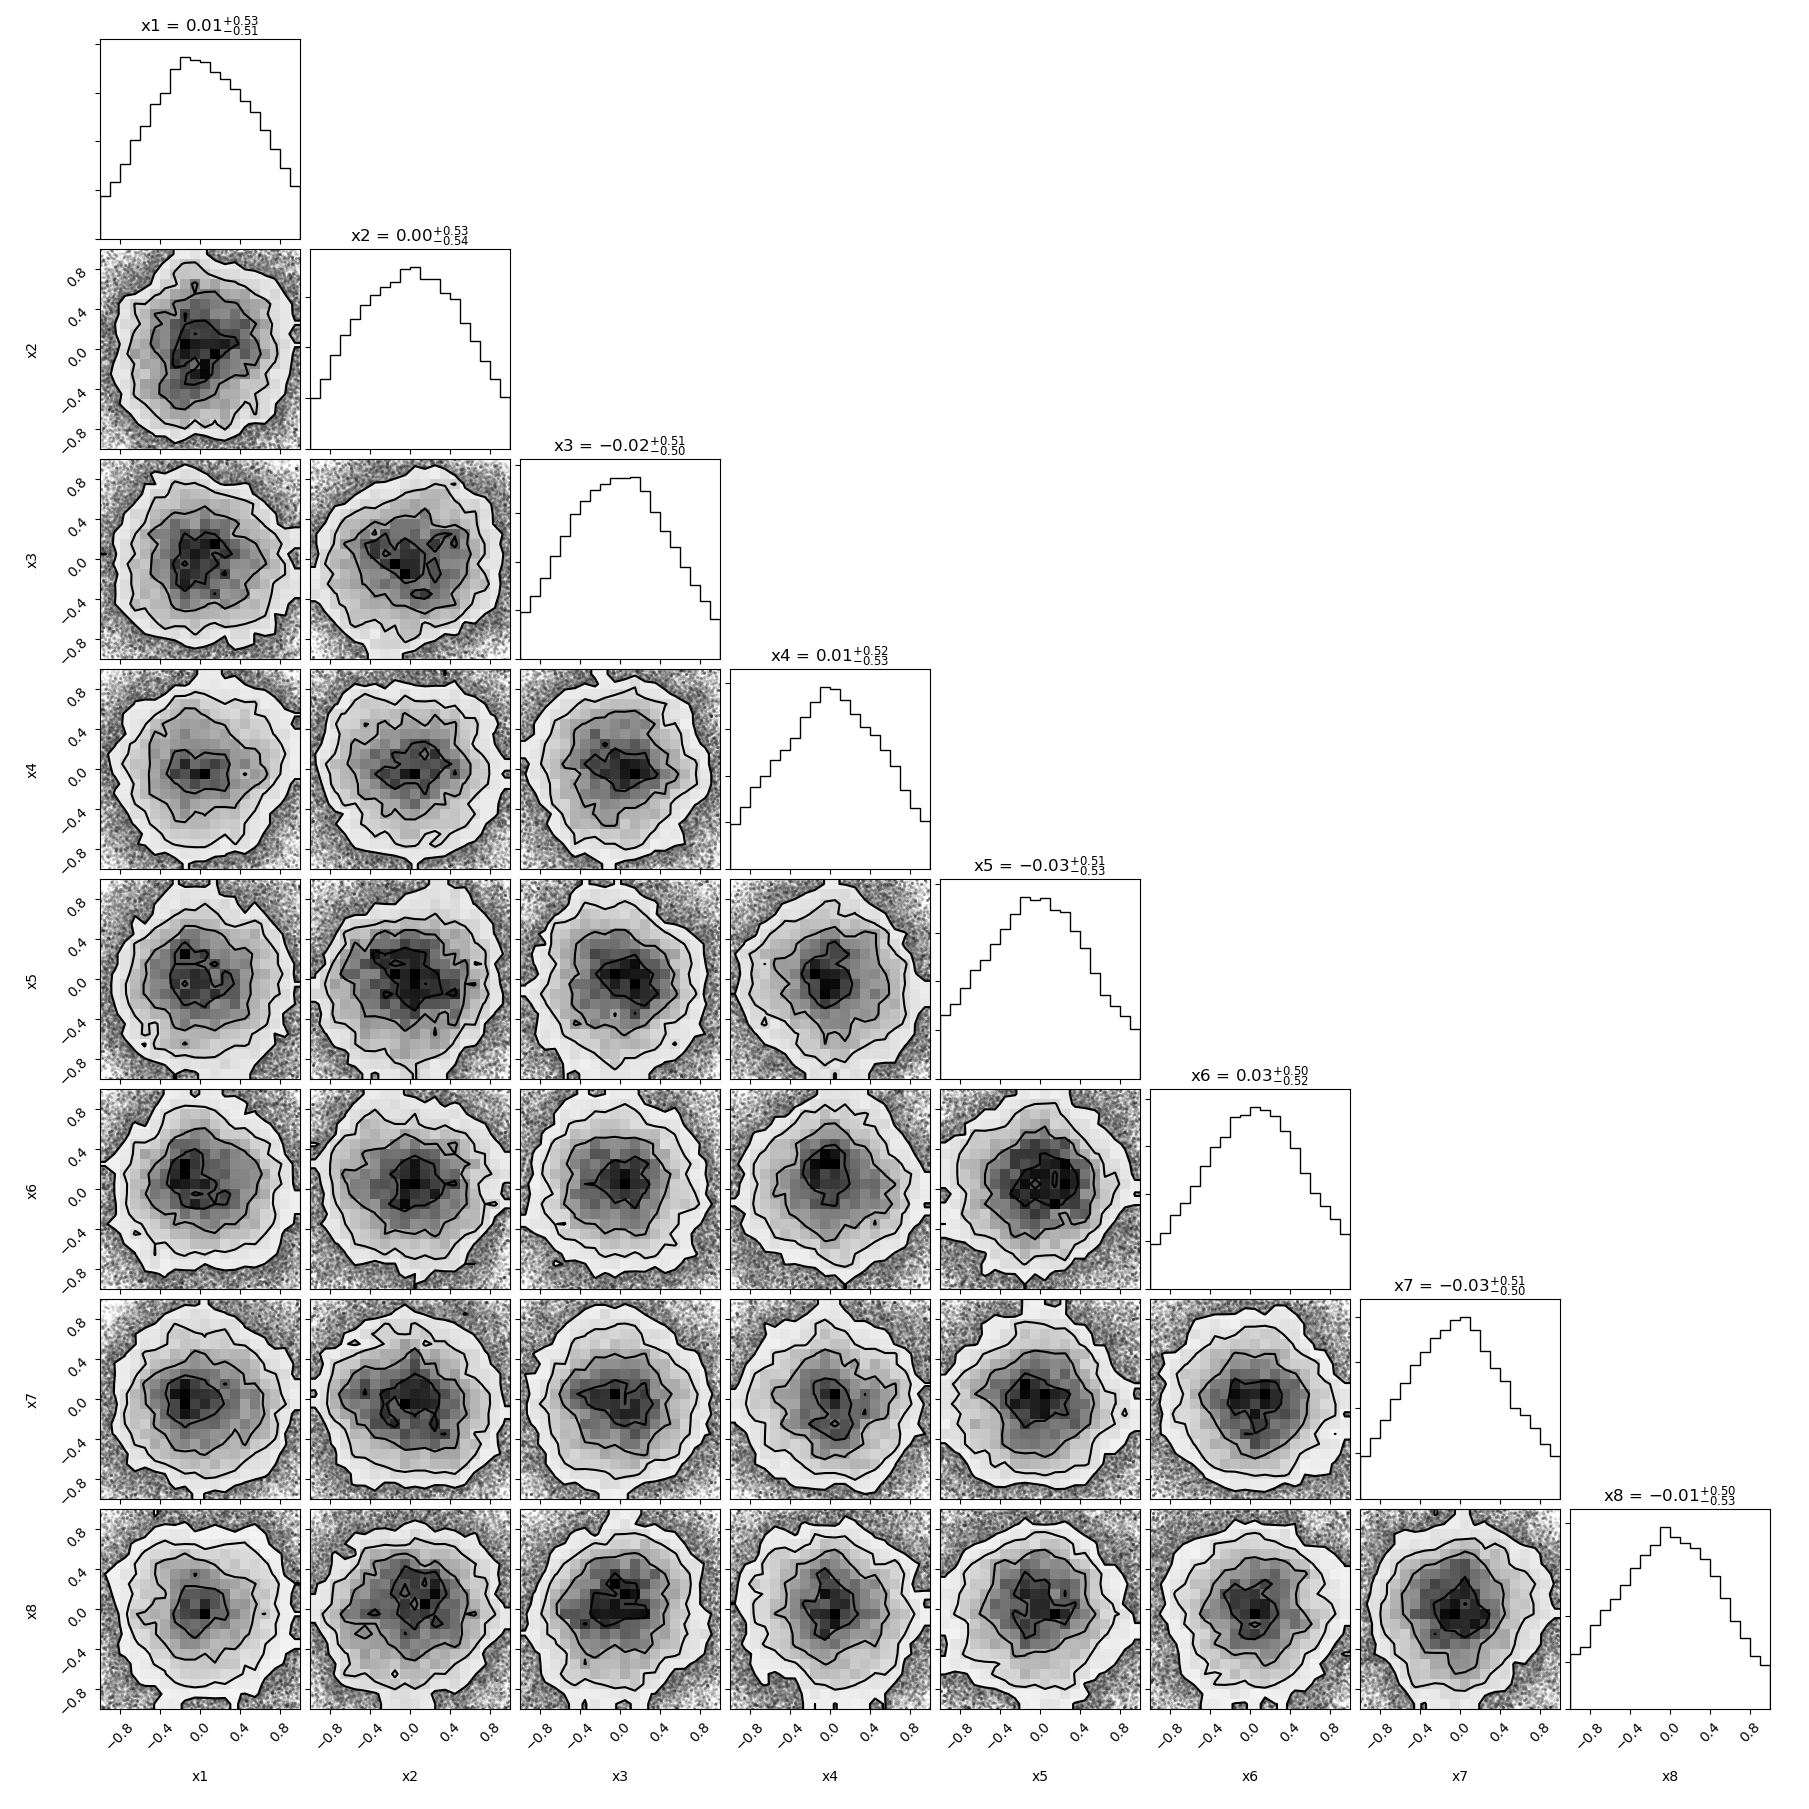
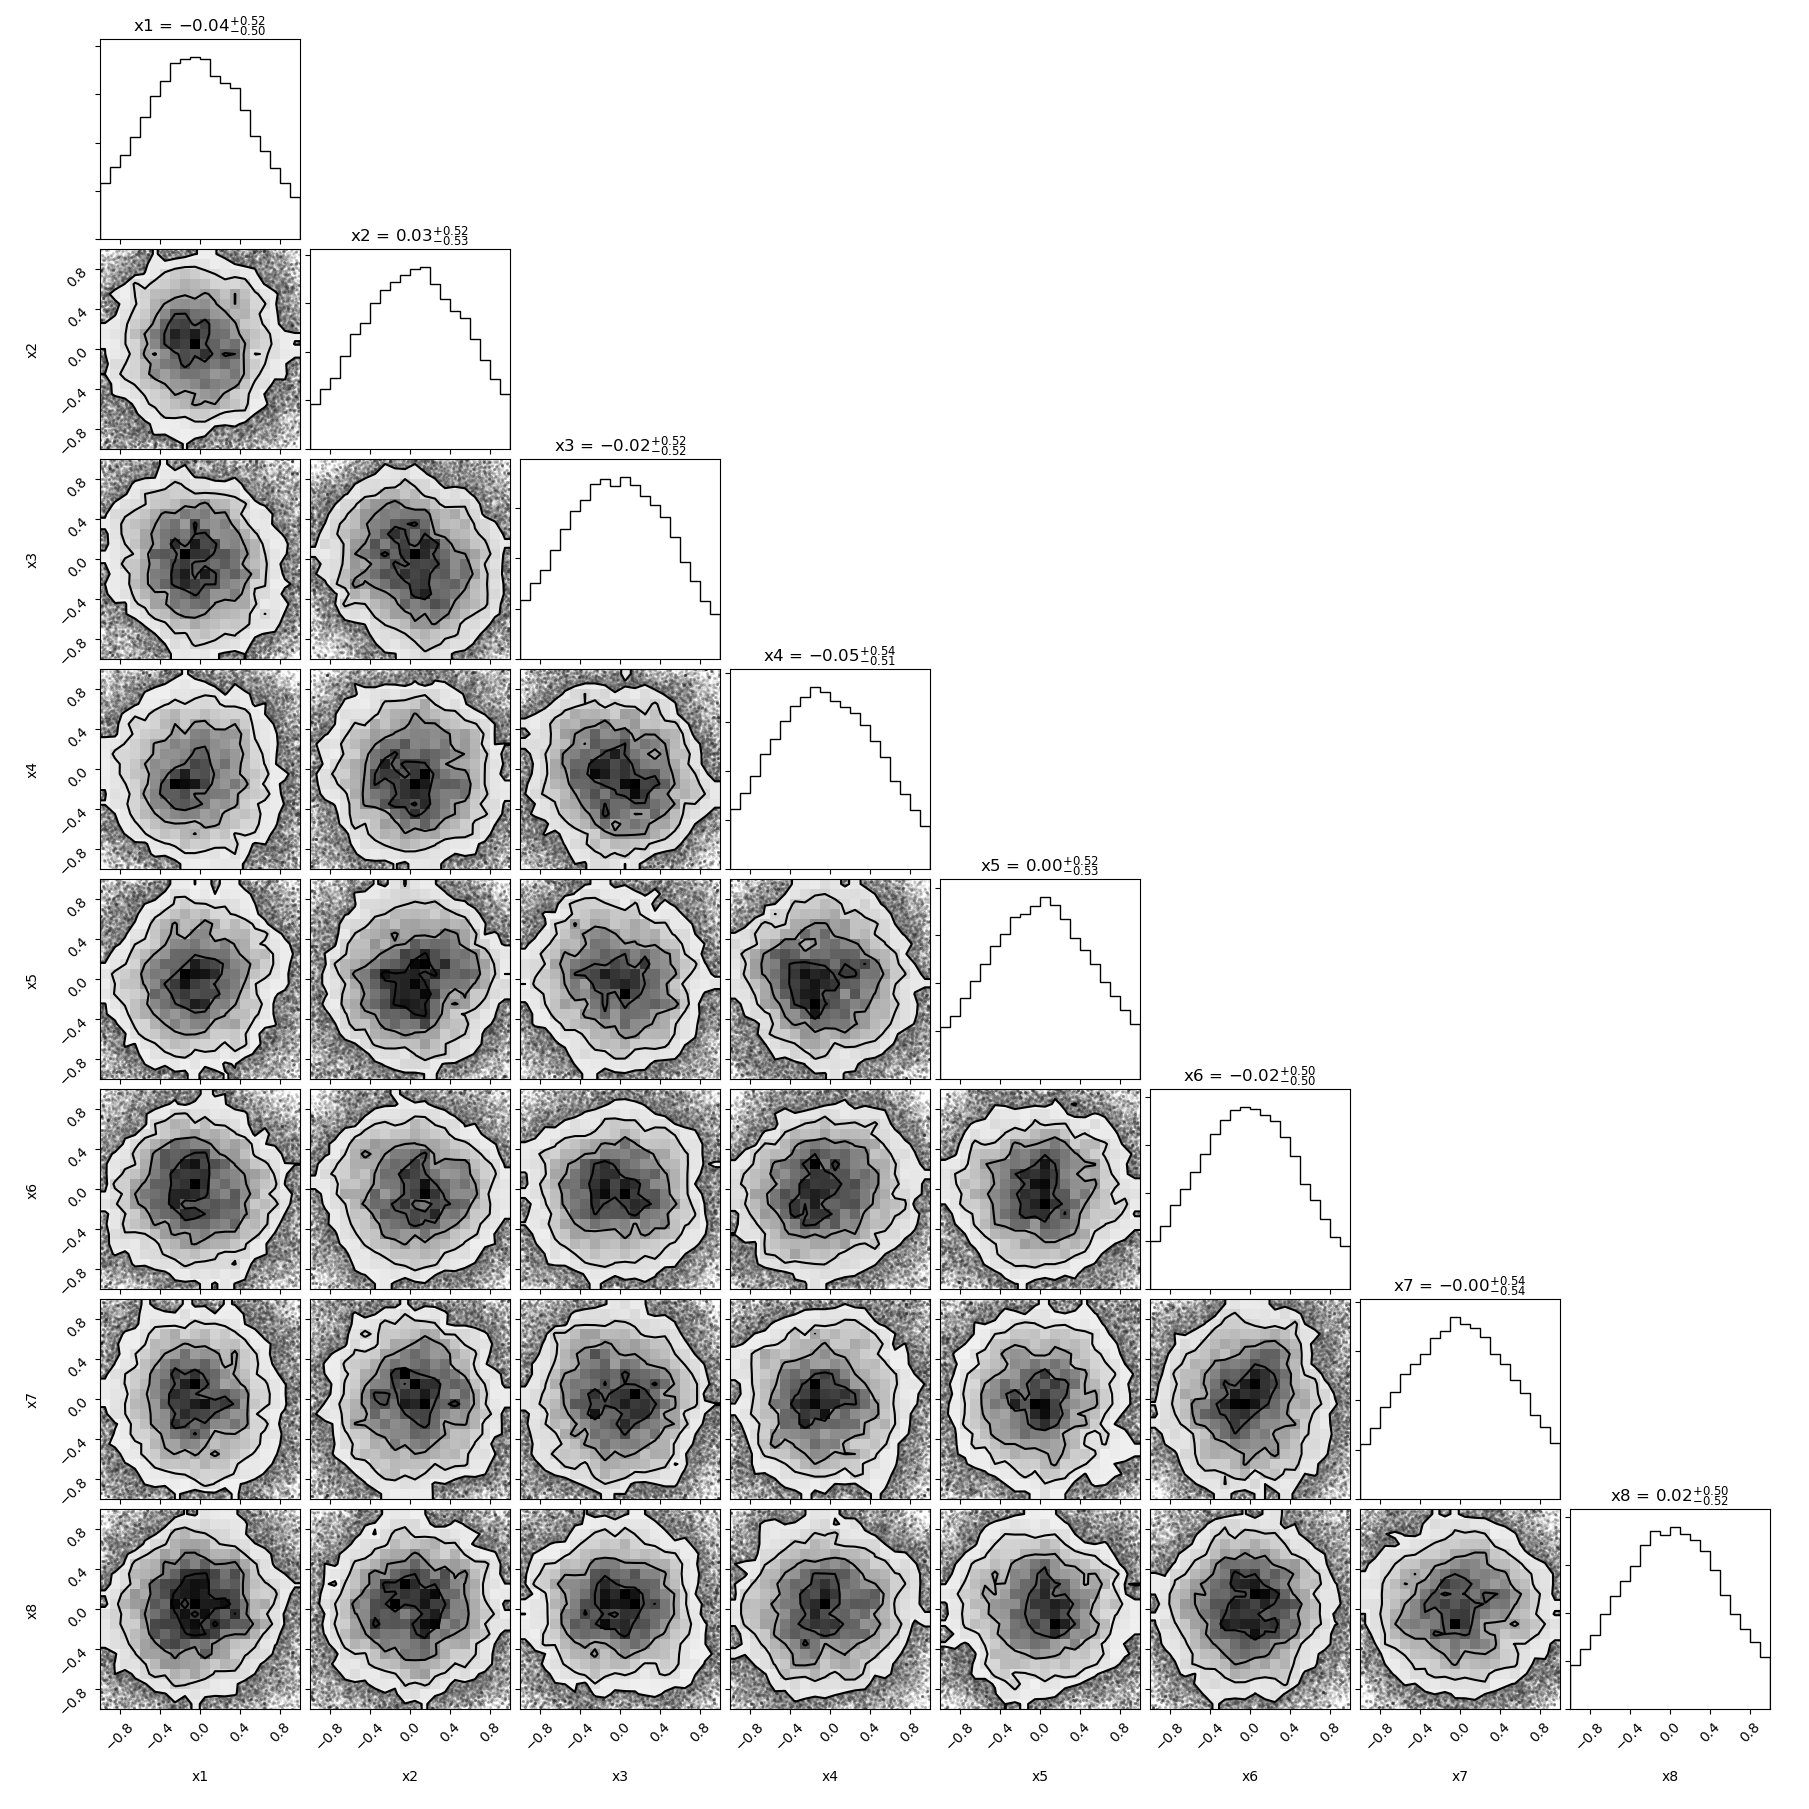
Fixed some plotting errors in convergence_tests.py and corner_plot.py

diff --git a/markpy/convergence_tests.py b/markpy/convergence_tests.py
@@ -42,7 +42,7 @@ def gelman_rubin(chain, start=0, end=None):
 
     # initialize some variables to use
     chains = np.array(chain)
-    ndim, nwalkers, nlen = chain.shape
+    ndim, nchains, nlen = chain.shape
     gelman_r = np.zeros([ndim])
 
     # check if we put an end index, put it at end if we didn't
@@ -56,14 +56,14 @@ def gelman_rubin(chain, start=0, end=None):
     for i in range(ndim):
 
         # calculate the between chain variance as shown in: https://pymc-devs.github.io/pymc/modelchecking.html
-        between = nlen/(nwalkers-1)*np.sum(np.mean(chains[:,:,i], axis=0) - np.mean(chain[:,:,i]))**2
+        between = nlen/(nchains-1)*np.sum(np.mean(chains[:,:,i], axis=0) - np.mean(chain[:,:,i]))**2
 
         #calculate the witin chain variance as shown in: https://pymc-devs.github.io/pymc/modelchecking.html
-        wihtin = np.sum((chain[:,:,i] - np.mean(chain[:,:,i],axis=0))**2 / (nlen - 1))/nwalkers
+        wihtin = np.sum((chain[:,:,i] - np.mean(chain[:,:,i],axis=0))**2 / (nlen - 1))/nchains
 
         #calcuate the total and post variances to find R
         var = (1/nlen)*between + (nlen-1)/nlen*wihtin
-        post_var = var + between/nwalkers
+        post_var = var + between/nchains
 
         # store the R statistic for each parameter
         gelman_r[i] = np.sqrt(post_var/wihtin)
@@ -71,7 +71,7 @@ def gelman_rubin(chain, start=0, end=None):
     return gelman_r
 
 
-def geweke(chain, seg_len, ref_start, first_start=0, ref_end=None):
+def geweke(chain, seg_len, ref_start=None, first_start=0, ref_end=None):
     """
     This function calcualtes the Geweke convergence statisitic of a sinmgle mcmc chain of shape (niter, ndim)
     This calculates the geweke statistic for each individual mcmc chain. This calcuates the z-score based from:
@@ -89,9 +89,12 @@ def geweke(chain, seg_len, ref_start, first_start=0, ref_end=None):
     # initialize the arrays
     geweke_stats = []
     ends = []
-
+    if ref_end is None:
+        ref_end = chain.shape[0]
+    if ref_start is None:
+        ref_start = ref_end-seg_len
     # set up the array of starting indexes
-    starts = np.arange(first_start, ref_end, seg_len)
+    starts = np.arange(first_start, ref_start, seg_len)
 
     # set up the reference segment
     ref_segment = chain[ref_start:ref_end]
@@ -112,7 +115,7 @@ def geweke(chain, seg_len, ref_start, first_start=0, ref_end=None):
     return np.array(geweke_stats), np.array(starts), np.array(ends)
 
 
-def plot_geweke(chain, seglen, ref_start, start=0, end=None):
+def plot_geweke(chain, seglen,filename, ref_start=None, start=0, end=None):
     """
     This is a function to generate a quick visualization of convergence statistic geweke. This, if used, will be instead
     directly using the geweke function in this file. This function will take the attributes MarkChain.states = chains
@@ -127,18 +130,23 @@ def plot_geweke(chain, seglen, ref_start, start=0, end=None):
     """
 
     niter, ndim, nchains = chain.shape
-    data = np.zeros([int(start+(niter-end)/seglen), ndim, nchains])
-    ends = np.zeros([int(start+(niter-end)/seglen), ndim, nchains])
-    starts = np.zeros([int(start+(niter-end)/seglen), ndim, nchains])
-    fig, ax = plt.figure()
+    data = np.zeros([int(start+niter/seglen), ndim, nchains])
+    ends = np.zeros([int(start+niter/seglen), ndim, nchains])
+    starts = np.zeros([int(start+niter/seglen), ndim, nchains])
+    fig, axs = plt.subplots(ndim*nchains, sharex='col')
+    ct = 0
     for i in range(ndim):
         for j in range(nchains):
+            ax = axs[ct]
             data[:,i,j], starts[:,i,j], ends[:,i,j] = geweke(chain[:,i,j], seglen, ref_start, start, end)
             ax.plot(0.5*(starts[:,i,j]+ends[:,i,j]), data[:,i,j], 'r.')
+            ax.hlines(2, 0, niter, colors='b')
+            ax.hlines(-2, 0, niter, colors='b')
+            ct += 1
     plt.xlabel('Iteration')
     plt.ylabel('Geweke statistic z-score')
-    plt.title('Geweke Convergence Test - %s chains, %s dimensions' %(nchains, ndim))
-    plt.savefig('Geweke_%schains_%sdimensions.png' %(nchains,ndim))
+    plt.suptitle('Geweke Convergence Test - %s chains, %s dimensions' %(nchains, ndim))
+    plt.savefig(filename)
     plt.show()
     return None
 

diff --git a/markpy/sampler.py b/markpy/sampler.py
@@ -27,15 +27,13 @@ This file Sets up the MarkChain object, used as our sampler in markpy
 """
 
 class MarkChain(object):
-    '''
+    """
     MarkChain is an object of the markov chain we are sampling. all parameters stored in MarkChain.states
     takes in a an object of the Model class as PDF, d is the dimension of our model, ranges for all parameters and
     proposed step sigma for our normally distributed randomwalk
-    '''
+    """
 
     name = 'Metropolis-Hastings Chain'
-    # TODO: we need to add is so we have another parameter: nwalkers which is the number of independent chains we
-    # TODO: need to run for each sampling parameter -  we need to add it so self.states has shape (niter,ndim,nwalkers)
 
     def __init__(self, PDF, d, sigprop, priorrange=None):
         """

diff --git a/test_normal_analytic.py b/test_normal_analytic.py
@@ -44,11 +44,14 @@ def main():
     norm_model = mp.NormModelAnalytic(params, sigs, means)
     mc = mp.MarkChain(norm_model, dimension, sigmaprop)
 
-    Nsteps = 100000
+    Nsteps = 500000
     mc.run(Nsteps)
-    chain = np.zeros([len(mc.states[:,0]),len(mc.states[0,:]),1])
-    chain[:,:,0] = mc.states
+    c = mc.get_burn_samps()
+    chain = np.zeros([len(c[:,0]),len(c[0,:]),1])
+    chain[:,:,0] = c
     mp.corner_plot(chain, params, 'norm_analytic_%s-d.png' % dimension)
+    file = 'geweke_test_normal_analytic_%s-d.png' % dimension
+    mp.plot_geweke(chain, 100, file)
     return None
 
 

diff --git a/markpy/corner_plot.py b/markpy/corner_plot.py
@@ -49,6 +49,9 @@ def corner_plot(chain, params, filename):
             data[j,i] = np.mean(chain[j,i,:])
 
     # generate the plot and save it
-    figure = corner.corner(data, labels=params, show_titles=True, title_kwargs={"fontsize": 12})
+    figure = corner.corner(data, labels=params,quantities=(0.05,0.90), levels=(1-np.exp(-0.5),), show_titles=True,
+                           title_kwargs={"fontsize": 12})
+
+    plt.suptitle('Corner Plot generated in markPy %s-d Sampling' % ndim)
     plt.savefig(filename)
     return None

diff --git a/markpy/__init__.py b/markpy/__init__.py
@@ -31,3 +31,9 @@ __models__ = {cls.name: cls for cls in (
     models.NormModelInfer, models.RosenbrockAnalytic, models.BaseModel,
     models.EggBoxAnalytic, models.NormModelAnalytic, models.BaseInferModel)
 }
+
+__samplers__ = {cls.name: cls for cls in (
+    sampler.MarkChain, sampler.ParallelMarkChain)
+}
+
+# TODO: ADD IN __steppers__ when that feature is added and same with __priors__ when that feature is added
